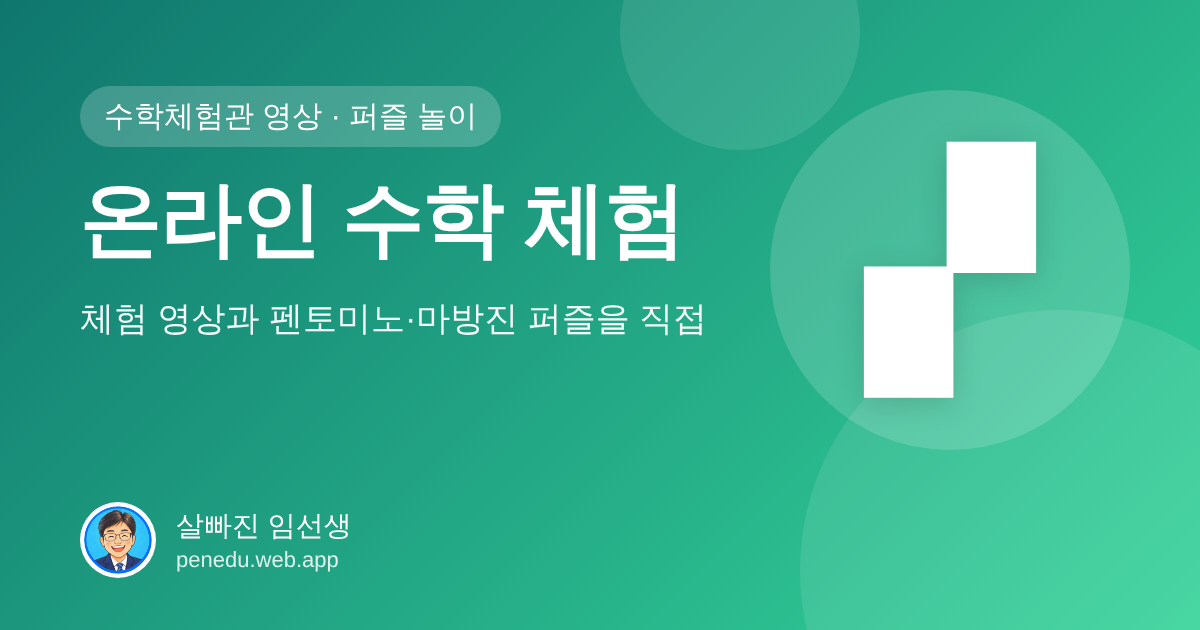
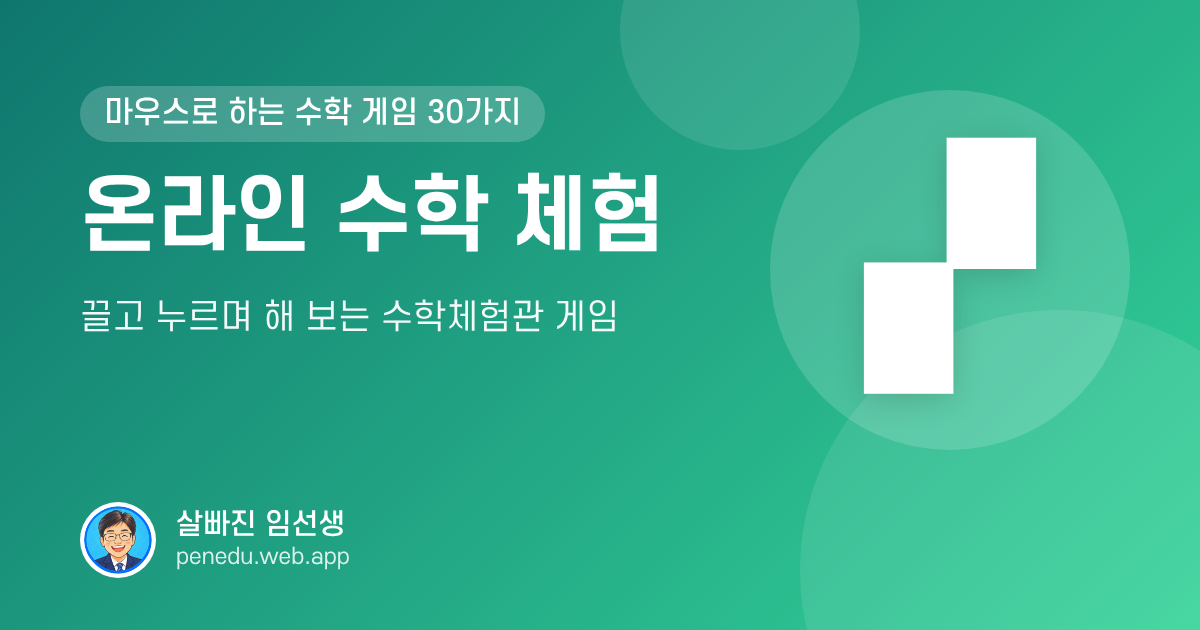
온라인 수학 체험: 마우스 게임 30가지 완성, 공유 이미지·기록 갱신
Claude-Session: https://claude.ai/code/session_01Ps6Gs2iXbj5bJkGMz4VoeG

diff --git a/docs/PROGRESS.md b/docs/PROGRESS.md
@@ -112,3 +112,10 @@
 - 퍼즐 놀이터(`/mathplay/puzzle`, 전북수학체험센터 사진 속 체험을 본뜸): 펜토미노 달력(판 8×7, 월12+일31+요일7, 7펜토미노 F·I·L·N·P·T·U + 3테트로미노 I·O·L, 월·일·요일 2,562가지 모두 풀림을 풀이 함수로 확인), 테트로미노 5종 채우기(문제 무작위 생성), 색동 마방진 4×4·5×5(가로·세로·두 대각선, 답 하나뿐인 문제만 생성). 로직은 `poly.ts`.
 - 사진 포스터의 '체험 2(숫자 칩)'는 글이 가려져 규칙을 알 수 없어 만들지 않음.
 - 외부 링크(Transum·Mathigon·Panchang Paheli·Math Equals Love·최석정 자료)는 검색 결과로만 확인함. 바뀔 수 있음.
+
+## 2026-10-09 — /mathplay 를 마우스 게임 중심으로 개편
+- 요청: 층별 체험을 목록·영상이 아니라 마우스로 해 보는 게임으로. 부산수학문화관 2F 11개·3F 5개·4F 14개, 모두 30개 게임을 `src/pages/mathplay/games/<id>.tsx` 에 만들고 `games/registry.ts` 에 제목·방법·생각해 볼 질문·본뜬 체험 이름을 둠(체험 카드에 '게임으로 해 보기' 단추가 자동으로 붙음, 경로 `/mathplay/game/<id>`). 공통 부품은 `games/kit.tsx`.
+- 계산 로직은 `*.logic.ts`·`*.math.ts` 로 분리해 node 로 검증(예: 쾨니히스베르크 완전탐색, 지도 4종 색 수, RSA 22,880가지 잠금·풀기, 몬티홀 20만 판, 사이클로이드 등시성, 원주율 3.14 확정 변 57개).
+- 게임은 체험 이름과 수학 내용을 보고 새로 만든 것이라 실제 체험(영상)과 방법이 다를 수 있음. 사람 확인 권장: 이름만으로 짐작한 체험('거울 속에 어떤 입체도형이', '시간을 맞혀 봐요', '내 공은 어디에 떨어질까?' 등).
+- 퍼즐 놀이터 조각은 끌어다 놓기(오른쪽 단추·R 돌리기, F 뒤집기, 터치는 두 번 눌러 놓기).
+- 점검: tsc·빌드, 30게임×(1100px·390px) 60화면 콘솔 오류 0·가로 넘침 0. 알려진 한계: 수평 맞추기 눈금 칸이 360px에서 약 30px.
